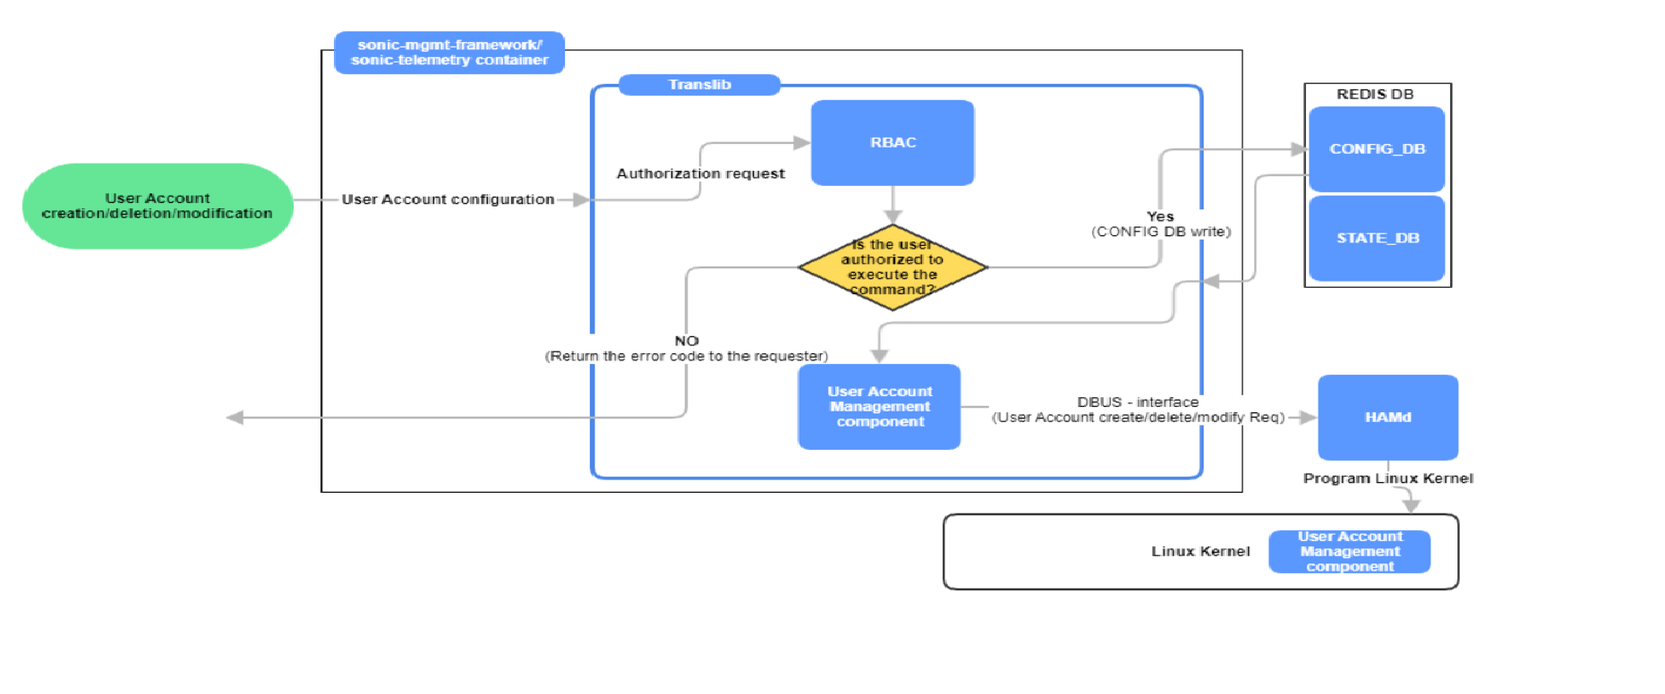
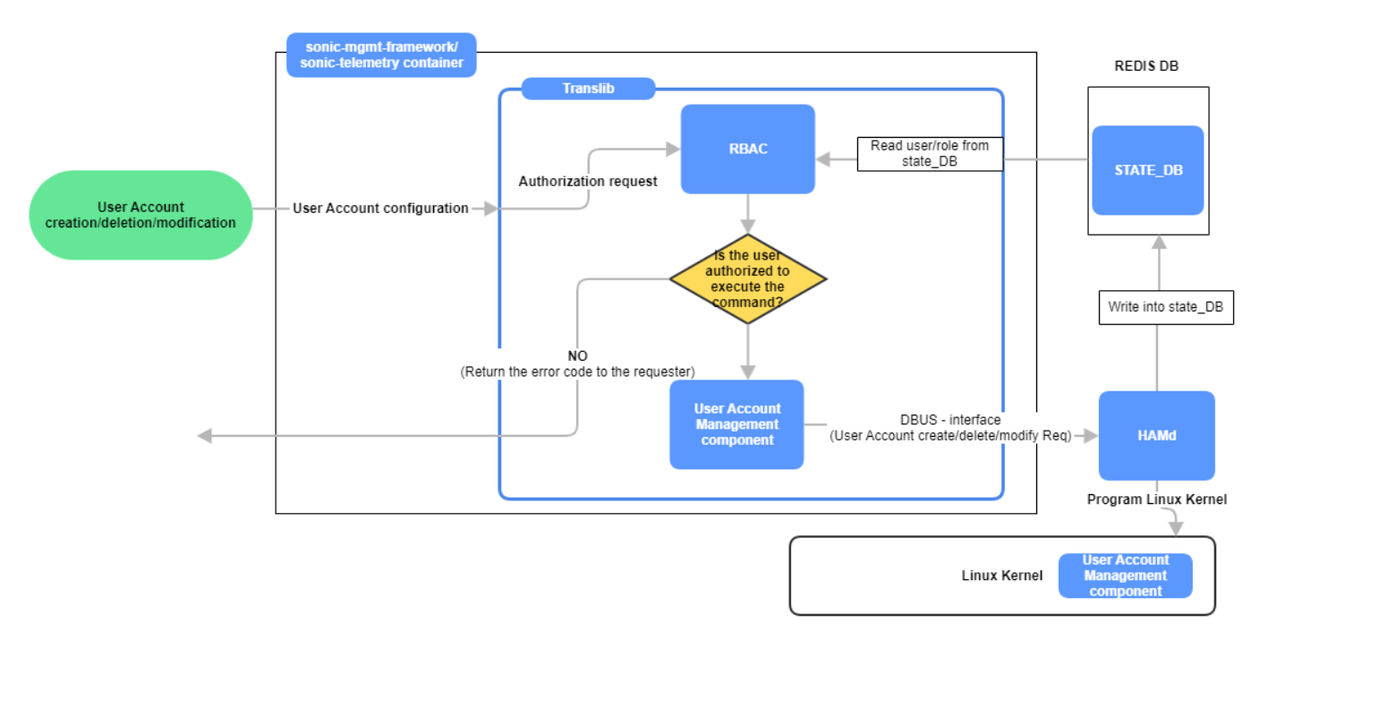
HAMD and RBAC design after payload parsing and user info in config_DB enhancements

Changed region(s): [[0.0, 0.0309, 0.8981, 0.8969], [0.7742, 0.5258, 0.8981, 0.5567], [0.031, 0.2165, 0.1548, 0.2474]]

diff --git a/doc/mgmt/SONiC_HAMD_RBAC_HLD.md b/doc/mgmt/SONiC_HAMD_RBAC_HLD.md
@@ -129,6 +129,7 @@ HAMD and RBAC Enhancements
 |     |             |  Soundharya Ramanathan        |                                   |
 |     |             |  Selvakumar Balu              |                                   |
 | 0.2 | 12/14/2022  |  Soundharya Ramanathan        | Based on discussion with all stakeholders, show commands have been made accessible to all user roles |
+| 0.3 | 03/03/2023  |  Soundharya Ramanathan        | Added payload parsing logic details and removal of user info from config_DB |
 
 # About this Manual
 This document provides comprehensive functional and design information about the HAMD and RBAC enhancement feature implementation in SONiC.
@@ -175,8 +176,8 @@ The existing RBAC feature must be enhanced to support the new roles.
 
 ## 1.2 Requirements
 ### 1.2.1 HAMD and Remote user Requirements
-1.	HAM module must be separated from the sonic-mgmt-framework repository and must be moved to the "src" directory (/dell_sonic_share/sonic-buildimage/src/).
-2.	HAMd must subscribe to the user account-related configuration notifications from the CONFIG-DB. The user account information from the CONFIG-DB must be stored in the STATE_DB(User Account information table).
+1.	HAM module must be separated from the sonic-mgmt-framework repository and must be moved to the "src" directory (/sonic-buildimage/src/).
+2.	The user account information must be written by the HAMd module into the linux kernel and must be stored in the STATE_DB(User Account information table).
     -	RBAC feature uses the User Account information table (STATE_DB) to fetch the user account information.
     -	HAMd handles only the local user accounts.
 3.	TACACS module must store the remote user account information in the STATE_DB (User Account information table).
@@ -190,6 +191,9 @@ The existing RBAC feature must be enhanced to support the new roles.
     -	This is applicable only to local users
     -	For remote users (TACACS and RADIUS), this will be supported in the future releases.
 8.	Software upgrade must work seamlessly.
+
+Note : When the command “username” is executed, the configuration is directly written into the kernel.
+So “write mem”  is not required to persist it across reboot. 
 
 ### 1.2.2 RBAC Requirements
 
@@ -213,7 +217,7 @@ This is a software implementation of the HAMD and RBAC enhancement.
 HAM module contains the following :
 1. HAMd - A daemon process that handles user account management-related configurations to be done in the Linux kernel.
 2. hamctl - A Linux kernel application that can be launched from a Linux shell. This can be used to check the functionality of the HAMd process.
-3. libnss_ham - A library that enables a container to avail the services offerec by the HAMd process.
+3. libnss_ham - A library that enables a container to avail the services offered by the HAMd process.
 4. libnss_sac - A library that assigns a User ID and a Primary Group ID to remote users (RADIUS/TACACS+).
 But, currently both the modules (RADIUS and TACACS) use their own mechanism to program the user account information in the Linux kernel.
 
@@ -254,7 +258,7 @@ No new or existing SAI services are required
 
 This feature is applicable to all north-bound interfaces like CLI/gNMI/RestAPI. 
 - For CLI, the RBAC is implemented in the CLISH.
-- For REST/gNMI : The RBAC feature must be implemented by a module that is common to REST and gNMI NBIs. Both sonic-mgmt-framework and telemetry containers use translib for writing/reading the configurations into/from the CONFIG DB. Hence, the RBAC feature would be implemented in the translib module.
+- For REST/gNMI : The RBAC feature must be implemented by a module that is common to REST and gNMI NBIs. Both sonic-mgmt-framework and telemetry containers use translib. Hence, the RBAC feature would be implemented in the translib module.
 
 
 ### Note:
@@ -320,7 +324,7 @@ The following table captures the CLI commands/xPATHS and their access privileges
 | | | | show 	| admin, secadmin, netadmin, operator |
 | | | | show running-configuration	| admin, secadmin, netadmin, operator |
 | | | | clear |	admin, secadmin, netadmin |
-| | | | renew dhcp-lease	| admin, secadmin |
+| | | | renew dhcp-lease	| admin, netadmin |
 | | | | terminal/terminal length |	admin, secadmin, netadmin, operator |
 | | debugsh.xml	| debugsh-view | NA	| Changes not required. (admin - debug shell) |
 | | platform.xml	| enable-view	| show platform ...	| admin, secadmin, netadmin, operator |
@@ -649,10 +653,10 @@ The following table captures the CLI commands/xPATHS and their access privileges
 | | | | [no] write erase ...	| admin, netadmin, secadmin |
 | clock	| clock.xml |	configure-view	| clock ...	| admin, secadmin |
 | | | | clock timezone ..	| admin, secadmin |
-|file management  (The required logic is implemented by the backend)	| file_mgmt.xml	| enable-view |	dir	| admin, netadmin, secadmin, operator |
-| | | | ls	| admin, netadmin, secadmin, operator |
-| | | | copy ...	| admin, netadmin, secadmin, operator |
-| | | | delete	| admin, netadmin, secadmin, operator |
+|file management  (The required logic is implemented by the backend)	| file_mgmt.xml	| enable-view |	dir	| taken care by backend |
+| | | | ls	| taken care by backend |
+| | | | copy ...	| taken care by backend |
+| | | | delete	| taken care by backend |
 | error disable	| errdisable.xml	| enable-view	| show errdisable ...	| admin, netadmin, secadmin, operator |
 | | | configure-view |	[no] errdisable recovery ...	| admin, netadmin, secadmin |
 | kernel core files	| kdump.xml	| configure-view	| kdump ...	| admin |
@@ -813,7 +817,7 @@ The whole design is captured in the following diagram,
 		- List of tuples.
 			- Each tuple is represented by : {Role, list of permitted operations}.
 
-- For authorized commands, translib would continue updating the CONFIG DB.
+- For authorized commands, translib would continue updating the STATE DB.
 - For unauthorized commands, an appropriate error message would be returned.
 - The rules to validate the REST/gNMI query is stored in a Trie datastructure in cache. 
 - The trie datastructure is created with the content from sonic-extension:user-role-priv in annotation yang files.
@@ -898,8 +902,8 @@ N/A
 Note : Both the above changes are applicable to new CLIs to be developed as part of 4.1 release and future releases.
 
 ### 3.10.1 Data Models
-A new container would be added in the the yang file : sonic-system-aaa.yang  
-(src/sonic-mgmt-common/models/yang/sonic/sonic-system-aaa.yang)
+A new container would be added in the the yang file : sonic-aaa.yang  
+(src/sonic-mgmt-common/models/yang/sonic/sonic-aaa.yang)
 
         container USER_TABLE {
             sonic-ext:db-name "STATE_DB";
@@ -951,7 +955,28 @@ The CLI command "username <> password <> role <>" has been enhanced :
 The username CLI command has been enhanced and it is explained in the above section.
 
 #### 3.10.2.2 Show Commands
-NA
+A new show command has been added to display the configured user account information.
+The user information (user name and user role) are fetched from the state_DB.
+
+sonic# show users configured
+----------------------------------------------------------------------
+User                              Role(s)
+----------------------------------------------------------------------
+admin                             admin
+admin1                            admin
+netad1_tac                        netadmin
+netad2_tac                        netadmin
+oper                              operator
+oper1                             operator
+secad                             secadmin
+secad1_tac                        secadmin
+secad2_tac                        secadmin
+test123                           admin
+usr                               netadmin
+usr_123                           netadmin,secadmin
+sonic#
+
+The 'show running-configuration' command will not display the user information since the user details are not stored in the config_DB.
 
 #### 3.10.2.3 Exec Commands
 NA
@@ -973,7 +998,7 @@ NA
 
 | **S.no** | **Case** | **4.0 image**     | **4.1 image**   | **Compatible** |
 |--------- |--------- |------------------ |---------------- | -------------- |
-| 1 | User account with existing user roles	| No entry in STATE_DB | Entry added in STATE_DB on receiving notification from config_DB | Yes |
+| 1 | User account with existing user roles	| No entry in STATE_DB | Entry added in STATE_DB | Yes |
 | 2 | Remote user with admin/operator roles | No entry in STATE_DB | Entry added in STATE_DB when remote user logs-in | Yes |
 | | | Remote user will be created with basic supplementary groups only. But local users have additional groups. | Additional groups (like sonic local user) will be added when remote user logs-in | Yes |
 
@@ -985,11 +1010,11 @@ NA
 
 | **S.no** | **Case** | **4.1 image**     | **4.0 image**   | **Compatible** |
 |--------- |----------|------------------ |---------------- | -------------- |
-| 1 | User account with existing user roles | Entry present in STATE_DB | Subscription code is not present in HAMD - Hence no entry will be added in the STATE_DB | Yes |
-| 2 | User account with new roles added in 4.1 | Entry present in STATE_DB | Subscription code is not present in HAMD - Hence no entry will be added in the STATE_DB | Yes |
+| 1 | User account with existing user roles | Entry present in STATE_DB | No entry will be added in the STATE_DB | Yes |
+| 2 | User account with new roles added in 4.1 | Entry present in STATE_DB | No entry will be added in the STATE_DB | Yes |
 | | | User account entry in linux kernel | The entry would be persisted by the post script | Yes |
 | | | New groups will be added as a part of the feature | The new groups will be retained and users with the new groups will also be retained. The new roles will not work. The user will behave like an operator. | Yes |
-| 3 | User account with more than one role (support added in 4.1 ) | Entry present in STATE_DB | Subscription code is not present in HAMD - Hence no entry will be added in the STATE_DB | Yes |
+| 3 | User account with more than one role (support added in 4.1 ) | Entry present in STATE_DB | No entry will be added in the STATE_DB | Yes |
 | | | User account entry in linux kernel | The entry would be persisted by the post script | Yes |
 | 4 | Remote user accounts | Entry present in STATE_DB | Radius/Tacacs modules will not write the user details into the STATE_DB | Yes |
 | | | New groups will be added as a part of the feature | The new groups will be removed when the remote user logs-in. No functionality issue | Yes |
@@ -1111,38 +1136,40 @@ Note : sonic-cli launch time is directly proportional to the num of Xpaths the u
 
 | **S.no** | **Testcase**     | **Test description**   | **Expected behavior**    
 |--------- |------------------|----------------------- |--------------------------
-| 1	| CLI - user add command	| Create a user with username, password and role using CLI command. Verify that the same user is written into kernel (local linux DB), config_DB (only role and username) and STATE_DB.	| User should be created. The user details should be updated in all the three DBs.
-| 2	| CLI - user mod command (role change)	| Modify an existing user by allotting a different role using CLI command. Verify that the changes are reflected in the kernel (local linux DB), config_DB (only role and username) and STATE_DB. |	User role should be modified. The user details should be updated in all the three DBs.
+| 1	| CLI - user add command	| Create a user with username, password and role using CLI command. Verify that the same user is written into kernel (local linux DB) and STATE_DB.	| User should be created. The user details should be updated in linux kernel and state_DB.
+| 2	| CLI - user mod command (role change)	| Modify an existing user by allotting a different role using CLI command. Verify that the changes are reflected in the kernel (local linux DB) and STATE_DB. |	User role should be modified. The user details should be updated in linux kernel and state_DB.
 | 3	| CLI - user mod command (password change)	| Modify an existing user by changing the password using CLI command. Verify that the changes are reflected in the kernel (local linux DB) . |	User password should be modified. The user details should be updated in linux kernel.
 | 4 |	CLI - login with the user newly created	| Login with the recently created CLI user credentials. Ensure successful login.	| The user should be able to login successfully. Check for the launch prompt also --> linux shell or sonic-cli  based on the type of user role assigned	
-| 5 |	CLI - support for multiple roles	| Create CLI users with multiple comma separated roles. Ensure the same is reflected in the kernel (local linux DB), config_DB (only role and username) and STATE_DB. | The multiple user roles should be reflected in all the three DBs.
-| 6 |	CLI - user delete command	| Delete a user using CLI command and verify the same.	| The deleted user should be erased from all the three DBs.	
-| 7	| REST - user add command	| Create a user with username, password and role using REST curl command. Verify that the same user is written into the kernel (local linux DB), config_DB (only role and username) and STATE_DB.	| User should be created. The user details should be updated in all the three DBs.
-| 8 |	REST - user mod command (role change)	| Modify an existing user by allotting a different role using REST curl command. Verify that the changes are reflected in the kernel (local linux DB), config_DB (only role and username) and STATE_DB.	| User role should be modified. The user details should be updated in all the three DBs.
+| 5 |	CLI - support for multiple roles	| Create CLI users with multiple comma separated roles. Ensure the same is reflected in the kernel (local linux DB) and STATE_DB. | The multiple user roles should be reflected in linux kernel and state_DB.
+| 6 |	CLI - user delete command	| Delete a user using CLI command and verify the same.	| The deleted user should be erased from linux kernel and state_DB.	
+| 7	| REST - user add command	| Create a user with username, password and role using REST curl command. Verify that the same user is written into the kernel (local linux DB) and STATE_DB.	| User should be created. The user details should be updated in linux kernel and state_DB.
+| 8 |	REST - user mod command (role change)	| Modify an existing user by allotting a different role using REST curl command. Verify that the changes are reflected in the kernel (local linux DB) and STATE_DB.	| User role should be modified. The user details should be updated in linux kernel and state_DB.
 | 9 |	REST - user mod command (password change) |	Modify an existing user by changing using REST curl command. Verify that the changes are reflected in the kernel (local linux DB).	| User password should be modified. The user details should be updated in linux kernel.	
 | 10 |	REST - login with the user newly created	| Login with the recently created REST curl user credentials. Ensure successful login.	| The user should be able to login successfully. Check for the launch prompt also --> linux shell or sonic-cli based on the type of user role assigned	
-| 11 |	REST - support for multiple roles	| Create REST users with multiple comma separated roles. Ensure the same is reflected in the kernel (local linux DB), config_DB (only role and username) and STATE_DB.	| The multiple user roles should be reflected in all the three DBs.	|
-| 12 |	REST - user delete command	| Delete a user using REST and verify the same. 	| The deleted user should be erased from all the three DBs.	
-| 13 |	GNMI - user add command	 | Create a user with username, password and role using GNMI command. Verify that the same user is written into the kernel (local linux DB), config_DB (only role and username) and STATE_DB	| User should be created. The user details should be updated in all the three DBs.
-| 14 |	GNMI - user mod command (role change)	| Modify an existing user by allotting a different role using GNMI command. Verify that the changes are reflected in the kernel (local linux DB), config_DB (only role and username) and STATE_DB.	| User role should be modified. The user details should be updated in all the three DBs.
+| 11 |	REST - support for multiple roles	| Create REST users with multiple comma separated roles. Ensure the same is reflected in the kernel (local linux DB) and STATE_DB.	| The multiple user roles should be reflected in linux kernel and state_DB.	|
+| 12 |	REST - user delete command	| Delete a user using REST and verify the same. 	| The deleted user should be erased from linux kernel and state_DB.	
+| 13 |	GNMI - user add command	 | Create a user with username, password and role using GNMI command. Verify that the same user is written into the kernel (local linux DB) and STATE_DB	| User should be created. The user details should be updated in linux kernel and state_DB.
+| 14 |	GNMI - user mod command (role change)	| Modify an existing user by allotting a different role using GNMI command. Verify that the changes are reflected in the kernel (local linux DB) and STATE_DB.	| User role should be modified. The user details should be updated in linux kernel and state_DB.
 | 15 |	GNMI - user mod command (password change) |	Modify an existing user by changing using GNMI command. Verify that the changes are reflected in the kernel (local linux DB).	| User password should be modified. The user details should be updated in the linux kernel.	
 |16 |	GNMI - login with the user newly created	| Login with the recently created GNMI user credentials. | Ensure successful login.	The user should be able to login successfully. Check for the launch prompt also --> linux shell or sonic-cli  based on the type of user role assigned	
-| 17 |	GNMI - support for multiple roles	| Create GNMI users with multiple comma separated roles . Ensure the same is reflected in kernel (local linux DB), config_DB (only role and username) and STATE_DB.	| The multiple user roles should be reflected in all the three DBs.
-| 18 | GNMI - user delete command	| Delete a user using GNMI and verify the same.	| The deleted user should be erased from all the three DBs.	
+| 17 |	GNMI - support for multiple roles	| Create GNMI users with multiple comma separated roles . Ensure the same is reflected in kernel (local linux DB) and STATE_DB.	| The multiple user roles should be reflected in linux kernel and state_DB.
+| 18 | GNMI - user delete command	| Delete a user using GNMI and verify the same.	| The deleted user should be erased from linux kernel and state_DB.	
 | 19 | Deleting a user who has logged in |	Login using a newly created user. Then delete the same user using "userdel <>" command. | Verify that deletion fails and throws an error.	
 | 20 | HAMD process halted and CLI is spawned	| Halt the HAMD process using GDB. Then try to launch sonic-cli. | sonic-cli should not be launched. Instead, it should take a long time and then throw an error message. 
 | 21 | HAMD process is killed and CLI is spawned	| Kill/Stop the HAMD process. Launch sonic-cli. | sonic-cli should not be launched. Instead, it should throw an error message
 | 22 | Stop the HAMD process and check for subsequent CLI commands	| Launch sonic-cli. Ensure CLI commands are working fine. Kill/Stop the HAMD process. Now check the behavior of show/config commands.	| show commands should throw an error (rendering alone does not happen). Config commands should work seamlessly.	
 | 23 | CLI is spawned and then HAMD process is halted. | Then CLI user add command is called sonic-cli is launched. Then halt the HAMD process using GDB. Now try to create a new user using CLI 'username ....' command. | The CLI command should hang since HAMD is not available. The command should get executed after HAMD comes up
 | 24 | Remote users - Radius/Tacacs authentication	| Login with the correct username and password (same as what is saved in the remote server)	| Remote users should be able to login successfully.	
-| 25 | Creating users with invalid role names |	Create users via any NBI. Give inappropriate role names. | The NBI should be capable of rejecting and throwing error.	
+| 25 | Creating/Modifying users with invalid role names |	Create/Modify users via any NBI. Give inappropriate role names. | The NBI should be capable of rejecting and throwing error.	
 | 26 |	Creating users with supplementary groups as role names	| Create users via any NBI. Give supplementary groups as role names. | The NBI should be capable of rejecting and throwing error.	
-| 27 |	Save & reload cases	| Write memory and reboot the switch. |	Ensure that local user data is not lost from any of the DB. Remote users which were written in the STATE_DB will be lost but login should work seamlessly. Post login, remote users should be re-written into STATE_DB
+| 27 |	Save & reload cases	| Write memory and reboot the switch. |	Ensure that local user data is not lost from the state_DB. Remote users which were written in the STATE_DB will be lost but login should work seamlessly. Post login, remote users should be re-written into STATE_DB
 | 28 |	Radius users with different MPL values	| Assign multiple MPL values (1 to 15) and ensure appropriate login. |	Admin user should be added to admin, redis, sudo, docker, adm groups and have full admin privileges. Netadmin users should be added to netadmin, docker, redis groups. Secadmin users should be added to secadmin, docker, redis groups. Operator users should be added to docker, operator groups.	
 | 29 |	Radius users with different group/role names | Assign different values to the newly added : Management-Policy-Id  VSA (admin/operator/netadmin/secadmin)| Admin user should be added to admin, redis, sudo, docker, adm groups and have full admin priviledges. Netadmin users should be added to netadmin, docker, redis groups. Secadmin users should be added to secadmin, docker, redis groups. Operator users should be added to docker, operator groups.	
 | 30 |	Radius users with invalid MPL value (other than 1 to 15)	| Assign invalid MPL value to a remote radius user defined in the server |	User should be assigned to operator group and be allowed to login with the operator privileges.
 | 31 |	Tacacs+ users with different priv-lvl values	| Assign priv-lvl (1 to 15) and ensure appropriate login.| Admin user should be added to admin, redis, sudo, docker, adm groups and have full admin priviledges. Operator users should be added to docker, operator groups. Netadmin users should be added to netadmin, docker, redis groups. Secadmin users should be added to secadmin, docker, redis groups.
 | 32 |	Tacacs+ users with invalid MPL value (other than 1 to 15)	| Assign invalid MPL to a remote tacacs user defined in the server |	User should not be able to login. Error should be thrown since the MPL is not appropriate.
+| 33 |  Create/Modify users with same user role repetatively | Create/Modify users via any NBI. Give same user role repetatively. | The NBI should be capable of honoring only one role. 
+| 34 |  Create/Modify users with short form of user role | Create/Modify users via any NBI. Give short form of user role | The NBI should be capable of rejecting and throwing error.
 
 ### Table 8: RBAC CLI Test cases
 
@@ -1205,17 +1232,18 @@ Klish/CLI involves the following major changes:
 
 ### 13.1.2  REST/gNMI code changes
 
-- The Translib library uses a tree to enforce RBAC.
-- The transformer component of the translib module reads all annotation yangs and populates the tree.
+- The Translib library uses a Trie to enforce RBAC.
+- The transformer component of the translib module reads all annotation yangs and populates the Trie.
 
 - REST and GNMI have common code present in sonic-mgmt-common repo. They are copied to the Telemetry and Mgmt-framework dockers. 
 - The code changes for RBAC is added in the common code in sonic-mgmt-common. 
+
 - For REST or GNMI, there is a function "isAuthorizedForSet" which already exists. This function currently allows all SET operations only for admin roles and denies for Operator role. 
 - Similarly, the function "isAuthorizedForGet" is called for GET operation too. 
+- These functions are no longer needed. So, these functions are removed. A new package called “RBAC” package is created to handle this rbac functionality.
 
-- A new function is to be created and called from the "isAuthorizedForSet()" and "isAuthorizedForGet()" to validate whether the particular xpath is authorized or not. 
-- The information required for this validation function is xpath, username/role and the operation type.
-- The details like xpath to role-mapping are required for the validation function. 
+- The information like xpath with/without json payload, userrole and the operation type are required to validate the operation. 
+- The predefined details like xpath to role-mapping data are required for the validation function. 
 - So, the xpath to role-mapping is created from the annotation yang using sonic-ext:user-role-priv extension statement.
 
 - A new sonic-ext:user-role-priv extension statement is created. The value for the user-role-priv should be added as a string within double quotes. The syntax format of the string is mentioned below.
@@ -1225,11 +1253,11 @@ Syntax:
 deviation /openconfig-module/openconfig-container[/openconfig-leaf] {
 
 deviate add {
-sonic-ext:user-role-priv "Operation1: role1, role2,  !role3; Operation2: role1, Role2";
+sonic-ext:user-role-priv "Operation1: Role1, Role2, !Role3; Operation2: Role1, Role2";
 }
 }
 
-- The Operation1 and Operation2 are the operations like rpc, read or write.
+- The Operation1 and Operation2 are the operations like rpc or write.
 - Role1, Role2 and Role3 are the rolenames like netadmin, secadmin and operator.
 - The ! denotes that the role is denied for the xpath. If ! is not mentioned, then the role is permited for the xpath.  
 - Permit and Deny are the accessTypes. 
@@ -1238,7 +1266,7 @@ Example:
 deviation /open-config/bgp/neighbor {
 
 deviate add {
-sonic-ext:user-role-priv "read: admin, netadmin,  secadmin, !operator;  write: admin, netadmin; rpc: admin";
+sonic-ext:user-role-priv "write: secadmin, netadmin; rpc: netadmin";
 }
 }
 
@@ -1248,12 +1276,28 @@ sonic-ext:user-role-priv "read: admin, netadmin,  secadmin, !operator;  write: a
 	For example:  If the xpath is "/open-config/bgp/neighbor", then the "/open-config" is stored in a node and "/bgp" is stored in second node and then "/neighbor" is stored in third node. So, after creating the nodes, the role, operationtype and accesstype is stored in the last node as key value pair. In this case, the role, Operation and accesstype are stored in the "/neighbor" node with the Role and Operationtype as key and Accesstype as value. 
 
 - Similarly, all the rules are inserted into the trie data stucture. 
-- When a GET/SET query is received, the newly created validate function is called. 
+- When a GET/SET query is received, the newly created validate function in the rbac package is called. 
 - In the validate function, the xpath is used to search in the trie to find the exact trie node. 
+
+- For set operation, there will be a xpath and json body(payload).  
+	- The json body(payload) is parsed and new xpaths are generated for each leaf nodes in the payload. 
+	- These newly generated xpaths are validated one by one separately.
+
 - Once the trie node is found, the accesstype is searched from the node with the key as role and opertype. 
 	In this example, consider a REST query with xpath as "/open-config/bgp/neighbor" for RPC operation for role netadmin. The trie search will happen in the trie datastructure with key as xpath.  The trie search will give the node "/neighbor" as result. Then, the role and opertype is used as another key in the node to get the accesstype. If the accesstype is "permit", then the particular query is authorized. Otherwise, the operation is denied with the message "Client is not authorized to perform this operation". 
 
-Note: By default, the admin role has Write access to all xpaths and Operator role has Read permission to all xpaths (except few security xpaths).
+Note: By default, the admin role has Write access to all xpaths and all roles have Read permission to all xpaths.
+
+- When a change is done in any of child node for a particular operation, then it will not inherit the access details for the operation from its parent node. But it will inherit all other type of operations. 
+
+	For Example: level1/level2/level3 
+			Level1: user-role-priv: "write:secadmin; rpc:netadmin” 
+			Level2: <no user-role-priv> 
+			Level3: “write:netadmin;” 
+
+	- The level1 is configured with “write:secadmin;” and nothing is configured in level2, then it will acquires the permissions from the parent level1. 
+	- But in level3, the write operation is modified. So, in the level3, it will only have write permission for the netadmin role only. Also, RPC is not modified in level3. So, it will have the parent node permissions. 
+
 
 ## 13.2 HAMD code changes
 The following major changes have been done in the HAMD module.
@@ -1261,10 +1305,9 @@ The following major changes have been done in the HAMD module.
 1. Removed the "ham" code from the mgmt-framework repo and added as a separate repo under sonic-buildimage.
 2. Made changes to the rules file of the affected repos, Makefile/debian of mgmt-framework repo, sonic_debian_extension file, slave.mk, etc to incorporate the peeling of HAM module.
 3. Added support for multiple roles - hamd_accounts.cpp has been modified to support these "CSV's"
-4. The local users will be written into the STATE_DB. They will be re-written after a save & reload of the switch too. Added hamd_db.cpp & hamd_redis.cpp files for this purpose.
-5. HAMD will listen to the config_DB notification during startup and write the local users into the STATE_DB, when the user details get flushed from STATE_DB after a save & reload scenario.
-6. Two more additional roles have been added to the group-mapping file : secadmin & netadmin (along with their supplementary roles)
-7. SAC module of the HAM does not have any significance currently. Hence the SAC module is neither compiled nor packaged as a separate debian.
+4. The local users will be written into the STATE_DB. They will be re-written after a save & reload of the switch too. This is done by reading the linux kernel. Added hamd_redis.cpp file for writing into the state_DB.
+5. Two more additional roles have been added to the group-mapping file : secadmin & netadmin (along with their supplementary roles)
+6. SAC module of the HAM does not have any significance currently. Hence the SAC module is neither compiled nor packaged as a separate debian.
 
 ## 13.3 Radius code changes
 In the radius repo, the following have been modified: 
